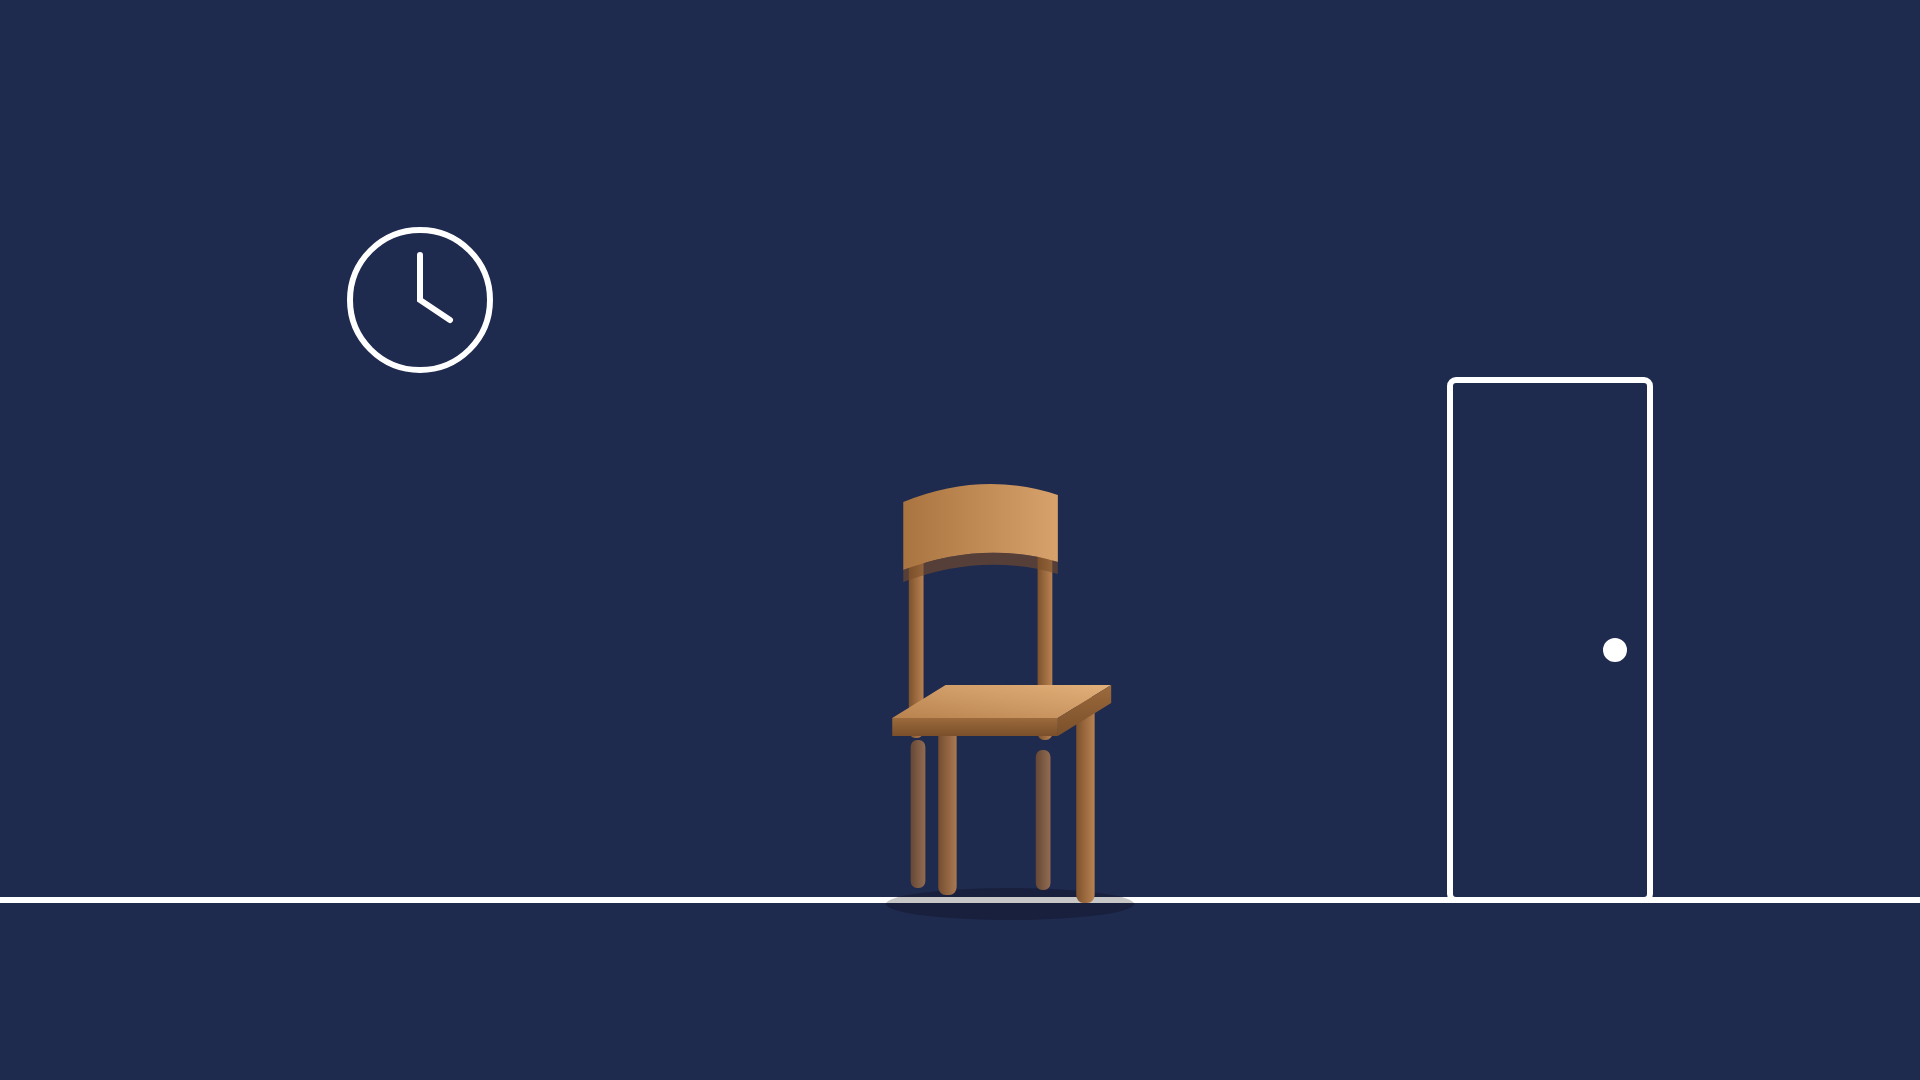
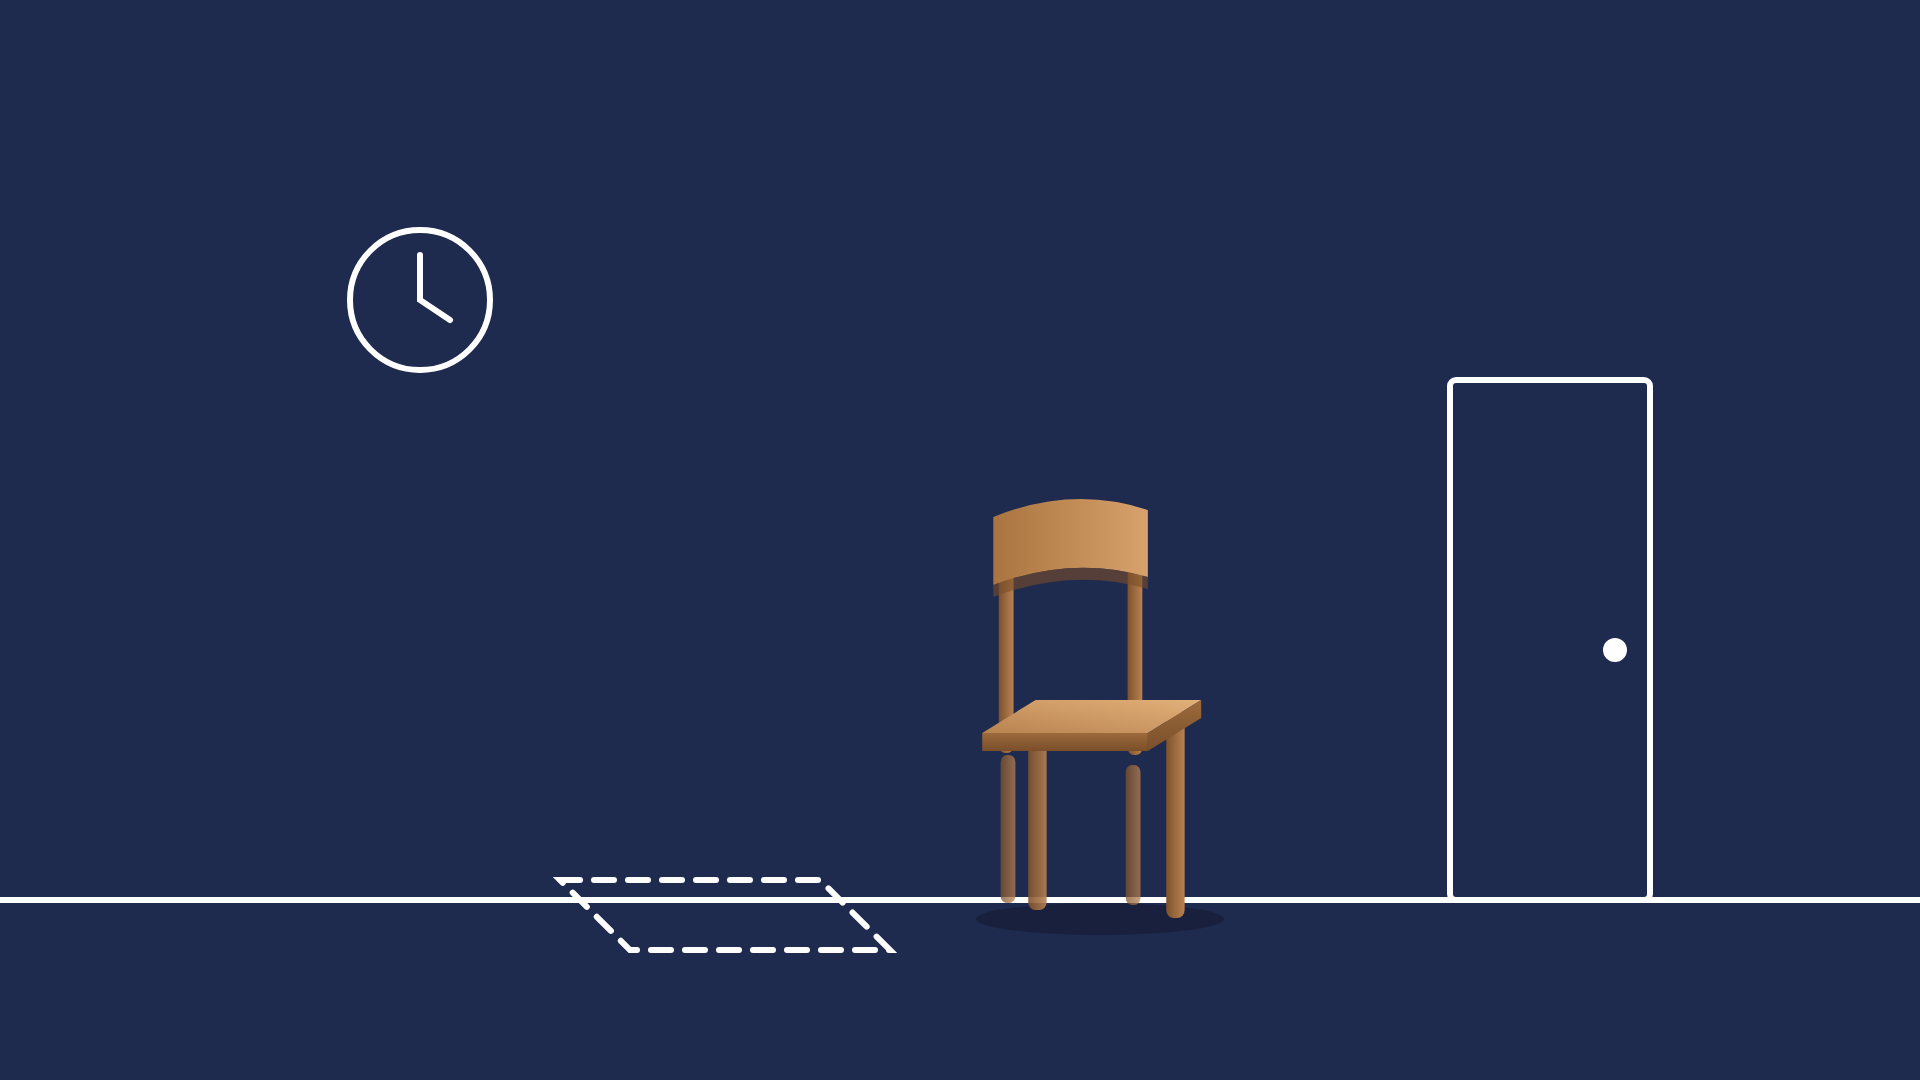
Vidéo 02 : repères croix/coche, place de la chaise au sol, règles de travail de la série
Claude-Session: https://claude.ai/code/session_01PNR9uKd2Bb424Mq2JDk583

Changed region(s): [[0.4688, 0.4278, 0.625, 0.8556], [0.3125, 0.8556, 0.4688, 0.8861], [0.2812, 0.7944, 0.4375, 0.825]]

diff --git a/serie-papa/videos/v02_chaise/timeline.js b/serie-papa/videos/v02_chaise/timeline.js
@@ -1,1 +1,1 @@
-window.TLDATA={"subs": [["THERE'S ONE", 0.8, 1.34, "#FFFFFF"], ["TINY THING", 1.34, 2.32, "#FFFFFF"], ["THAT REVEALS", 2.32, 2.94, "#FFFFFF"], ["MORE ABOUT", 2.94, 3.7, "#FFFFFF"], ["YOU THAN", 3.7, 4.12, "#FFFFFF"], ["YOU THINK.", 4.12, 5.08, "#FFFFFF"], ["AND ALMOST", 5.38, 5.76, "#FFFFFF"], ["NOBODY NOTICES", 5.76, 6.82, "#FFFFFF"], ["IT.", 6.82, 7.8, "#FFFFFF"], ["IMAGINE THIS.", 7.8, 9.28, "#FFFFFF"], ["YOU GET", 9.5, 9.76, "#FFFFFF"], ["UP FROM", 9.76, 10.06, "#FFFFFF"], ["A CHAIR.", 10.06, 11.02, "#FFFFFF"], ["NOBODY'S WATCHING,", 11.02, 12.2, "#FFFFFF"], ["NOBODY CARES.", 12.2, 13.28, "#FFFFFF"], ["AND THE", 13.54, 13.68, "#FFFFFF"], ["CHAIR STAYS", 13.68, 14.7, "#FFFFFF"], ["EXACTLY WHERE", 14.7, 15.86, "#FFFFFF"], ["YOU LEFT", 15.86, 16.18, "#FFFFFF"], ["IT.", 16.18, 16.94, "#FFFFFF"], ["SOME PEOPLE", 18.8, 19.28, "#FFFFFF"], ["WALK AWAY.", 19.28, 20.36, "#FFFFFF"], ["SOME PUT", 22.6, 23.08, "#FFFFFF"], ["IT BACK.", 23.08, 23.96, "#FFFFFF"], ["AND SOME", 26.6, 26.96, "#FFFFFF"], ["EVEN FIX", 26.96, 27.66, "#FFFFFF"], ["THE CHAIRS", 27.66, 28.24, "#FFFFFF"], ["OTHER PEOPLE", 28.24, 28.9, "#FFFFFF"], ["LEFT BEHIND.", 28.9, 30.02, "#FFFFFF"], ["BUT HERE'S", 31.0, 31.44, "#FFFFFF"], ["WHAT'S INTERESTING.", 31.44, 32.4, "#FFFFFF"], ["THE DIFFERENCE", 32.7, 33.16, "#FFFFFF"], ["ISN'T REALLY", 33.16, 33.9, "#FFFFFF"], ["ABOUT THE", 33.9, 34.44, "#FFFFFF"], ["CHAIR.", 34.44, 35.3, "#FFFFFF"], ["IT'S ABOUT", 35.3, 35.7, "#FFFFFF"], ["HOW PEOPLE", 35.7, 36.24, "#FFFFFF"], ["BEHAVE WHEN", 36.24, 37.06, "#FFFFFF"], ["THERE'S NO", 37.06, 37.52, "#FFFFFF"], ["REWARD AND", 37.52, 38.54, "#FFFFFF"], ["NO CONSEQUENCES.", 38.54, 39.78, "#FFFFFF"], ["BECAUSE CHARACTER", 41.8, 42.4, "#FFFFFF"], ["ISN'T ALWAYS", 42.4, 43.28, "#FFFFFF"], ["REVEALED BY", 43.28, 44.02, "#FFFFFF"], ["WHAT YOU", 44.02, 44.38, "#FFFFFF"], ["DO WHEN", 44.38, 44.72, "#FFFFFF"], ["PEOPLE ARE", 44.72, 45.16, "#FFFFFF"], ["WATCHING.", 45.16, 46.1, "#FFFFFF"], ["SOMETIMES IT'S", 46.1, 47.32, "#FFFFFF"], ["WHAT YOU", 47.32, 47.62, "#FFFFFF"], ["DO WHEN", 47.62, 48.06, "#FFFFFF"], ["ABSOLUTELY NOBODY", 48.06, 49.22, "#FFFFFF"], ["IS.", 49.22, 50.2, "#FFFFFF"], ["SO HERE'S", 52.6, 53.44, "#FFFFFF"], ["A STRANGE", 53.44, 53.74, "#FFFFFF"], ["THOUGHT.", 53.74, 54.56, "#FFFFFF"], ["IF SOMEONE", 54.86, 55.1, "#FFFFFF"], ["WATCHED YOU", 55.1, 55.78, "#FFFFFF"], ["LEAVE THAT", 55.78, 56.22, "#FFFFFF"], ["CHAIR BEHIND,", 56.22, 57.22, "#FFFFFF"], ["WHAT WOULD", 57.54, 57.8, "#FFFFFF"], ["THEY LEARN", 57.8, 58.12, "#FFFFFF"], ["ABOUT YOU?", 58.12, 59.12, "#FFFFFF"]], "big": [["THE CHAIR TEST", 0.5, 6.9, 960, 300, 150], ["NO REWARD", 37.3, 40.6, 360, 560, 80], ["NO CONSEQUENCES", 38.54, 40.6, 1580, 560, 80], ["WHAT WOULD THEY LEARN ABOUT YOU?", 59.2, 63.6, 960, 105, 100]], "icons": [["eyeoff", 11.02, 12.2, 1250, 330, "#FFFFFF"], ["check", 22.8, 26.2, 1500, 330, "#FFFFFF"]], "duration": 64.0, "pieces": [[0.0, 6.7, 0.8], [7.06, 16.1, 7.8], [16.62, 18.1, 18.8], [18.32, 19.5, 22.6], [19.74, 23.0, 26.6], [23.42, 32.4, 31.0], [32.78, 41.2, 41.8], [41.94, 48.3, 52.6]]};
+window.TLDATA={"subs": [["THERE'S ONE", 0.8, 1.34, "#FFFFFF"], ["TINY THING", 1.34, 2.32, "#FFFFFF"], ["THAT REVEALS", 2.32, 2.94, "#FFFFFF"], ["MORE ABOUT", 2.94, 3.7, "#FFFFFF"], ["YOU THAN", 3.7, 4.12, "#FFFFFF"], ["YOU THINK.", 4.12, 5.08, "#FFFFFF"], ["AND ALMOST", 5.38, 5.76, "#FFFFFF"], ["NOBODY NOTICES", 5.76, 6.82, "#FFFFFF"], ["IT.", 6.82, 7.8, "#FFFFFF"], ["IMAGINE THIS.", 7.8, 9.28, "#FFFFFF"], ["YOU GET", 9.5, 9.76, "#FFFFFF"], ["UP FROM", 9.76, 10.06, "#FFFFFF"], ["A CHAIR.", 10.06, 11.02, "#FFFFFF"], ["NOBODY'S WATCHING,", 11.02, 12.2, "#FFFFFF"], ["NOBODY CARES.", 12.2, 13.28, "#FFFFFF"], ["AND THE", 13.54, 13.68, "#FFFFFF"], ["CHAIR STAYS", 13.68, 14.7, "#FFFFFF"], ["EXACTLY WHERE", 14.7, 15.86, "#FFFFFF"], ["YOU LEFT", 15.86, 16.18, "#FFFFFF"], ["IT.", 16.18, 16.94, "#FFFFFF"], ["SOME PEOPLE", 18.8, 19.28, "#FFFFFF"], ["WALK AWAY.", 19.28, 20.36, "#FFFFFF"], ["SOME PUT", 22.6, 23.08, "#FFFFFF"], ["IT BACK.", 23.08, 23.96, "#FFFFFF"], ["AND SOME", 26.6, 26.96, "#FFFFFF"], ["EVEN FIX", 26.96, 27.66, "#FFFFFF"], ["THE CHAIRS", 27.66, 28.24, "#FFFFFF"], ["OTHER PEOPLE", 28.24, 28.9, "#FFFFFF"], ["LEFT BEHIND.", 28.9, 30.02, "#FFFFFF"], ["BUT HERE'S", 31.0, 31.44, "#FFFFFF"], ["WHAT'S INTERESTING.", 31.44, 32.4, "#FFFFFF"], ["THE DIFFERENCE", 32.7, 33.16, "#FFFFFF"], ["ISN'T REALLY", 33.16, 33.9, "#FFFFFF"], ["ABOUT THE", 33.9, 34.44, "#FFFFFF"], ["CHAIR.", 34.44, 35.3, "#FFFFFF"], ["IT'S ABOUT", 35.3, 35.7, "#FFFFFF"], ["HOW PEOPLE", 35.7, 36.24, "#FFFFFF"], ["BEHAVE WHEN", 36.24, 37.06, "#FFFFFF"], ["THERE'S NO", 37.06, 37.52, "#FFFFFF"], ["REWARD AND", 37.52, 38.54, "#FFFFFF"], ["NO CONSEQUENCES.", 38.54, 39.78, "#FFFFFF"], ["BECAUSE CHARACTER", 41.8, 42.4, "#FFFFFF"], ["ISN'T ALWAYS", 42.4, 43.28, "#FFFFFF"], ["REVEALED BY", 43.28, 44.02, "#FFFFFF"], ["WHAT YOU", 44.02, 44.38, "#FFFFFF"], ["DO WHEN", 44.38, 44.72, "#FFFFFF"], ["PEOPLE ARE", 44.72, 45.16, "#FFFFFF"], ["WATCHING.", 45.16, 46.1, "#FFFFFF"], ["SOMETIMES IT'S", 46.1, 47.32, "#FFFFFF"], ["WHAT YOU", 47.32, 47.62, "#FFFFFF"], ["DO WHEN", 47.62, 48.06, "#FFFFFF"], ["ABSOLUTELY NOBODY", 48.06, 49.22, "#FFFFFF"], ["IS.", 49.22, 50.2, "#FFFFFF"], ["SO HERE'S", 52.6, 53.44, "#FFFFFF"], ["A STRANGE", 53.44, 53.74, "#FFFFFF"], ["THOUGHT.", 53.74, 54.56, "#FFFFFF"], ["IF SOMEONE", 54.86, 55.1, "#FFFFFF"], ["WATCHED YOU", 55.1, 55.78, "#FFFFFF"], ["LEAVE THAT", 55.78, 56.22, "#FFFFFF"], ["CHAIR BEHIND,", 56.22, 57.22, "#FFFFFF"], ["WHAT WOULD", 57.54, 57.8, "#FFFFFF"], ["THEY LEARN", 57.8, 58.12, "#FFFFFF"], ["ABOUT YOU?", 58.12, 59.12, "#FFFFFF"]], "big": [["THE CHAIR TEST", 0.5, 6.9, 960, 300, 150], ["NO REWARD", 37.3, 40.6, 360, 560, 80], ["NO CONSEQUENCES", 38.54, 40.6, 1580, 560, 80], ["WHAT WOULD THEY LEARN ABOUT YOU?", 59.2, 63.6, 960, 105, 100]], "icons": [["eyeoff", 11.02, 12.2, 1250, 330, "#FFFFFF"], ["cross", 13.6, 16.9, 1300, 420, "#FFFFFF"], ["cross", 19.3, 22.2, 1400, 330, "#FFFFFF"], ["check", 22.8, 26.2, 1500, 330, "#FFFFFF"], ["cross", 28.9, 30.2, 1400, 330, "#FFFFFF"], ["check", 43.5, 45.9, 1300, 330, "#FFFFFF"], ["cross", 48.0, 50.9, 1500, 330, "#FFFFFF"], ["check", 54.5, 59.0, 1450, 400, "#FFFFFF"]], "duration": 64.0, "pieces": [[0.0, 6.7, 0.8], [7.06, 16.1, 7.8], [16.62, 18.1, 18.8], [18.32, 19.5, 22.6], [19.74, 23.0, 26.6], [23.42, 32.4, 31.0], [32.78, 41.2, 41.8], [41.94, 48.3, 52.6]]};

diff --git a/serie-papa/videos/v02_chaise/depart.html b/serie-papa/videos/v02_chaise/depart.html
@@ -36,7 +36,7 @@ svg{position:absolute;inset:0}img{position:absolute}
 <div class="f" id="c1b" style="background:#1F2A4F"><svg viewBox="0 0 1920 1080" fill="none" stroke="#fff" stroke-width="6" stroke-linecap="round">
 <line x1="0" y1="900" x2="1920" y2="900"/><rect x="1450" y="380" width="200" height="520" rx="6"/><circle cx="1615" cy="650" r="9" fill="#fff"/>
 <circle cx="420" cy="300" r="70"/><path d="M420 255 V300 L450 320"/>
-<g transform="translate(1010,900) scale(-0.92,1)"><use href="#chair" stroke="none"/></g></svg></div>
+<path d="M560 880 L820 880 L890 950 L630 950 Z" stroke-dasharray="20 14" stroke-width="6"/><g transform="translate(1100,915) scale(-0.92,1)"><use href="#chair" stroke="none"/></g></svg></div>
 
 <!-- K1: Papa next to the chair in the waiting room (scene 2) -->
 <div class="f" id="k1" style="background:#1F2A4F"><svg viewBox="0 0 1920 1080" fill="none" stroke="#fff" stroke-width="6" stroke-linecap="round">

diff --git a/serie-papa/videos/v02_chaise/overlay.html b/serie-papa/videos/v02_chaise/overlay.html
@@ -17,6 +17,7 @@ const ICON = {
   calendar: '<rect x="-70" y="-60" width="140" height="130" rx="12"/><path d="M-70 -25 H70 M-35 -78 V-45 M35 -78 V-45"/><path d="M-32 22 L-8 45 L35 -2"/>',
   arrow: '<path d="M-80 60 L-25 5 L10 35 L75 -35"/><path d="M35 -38 H78 V5"/>',
   eyeoff: '<path d="M-80 0 C-45 -50 45 -50 80 0 C45 50 -45 50 -80 0 Z"/><circle r="20"/><path d="M-70 -55 L70 55"/>',
+  cross: '<circle r="70"/><path d="M-28 -28 L28 28 M28 -28 L-28 28"/>',
   check: '<circle r="70"/><path d="M-32 2 L-8 26 L35 -22"/>',
   heart: '<path d="M0 60 C-90 5 -75 -65 -25 -60 C-10 -58 0 -45 0 -35 C0 -45 10 -58 25 -60 C75 -65 90 5 0 60 Z"/>',
 };

diff --git a/serie-papa/videos/v02_chaise/timeline.py b/serie-papa/videos/v02_chaise/timeline.py
@@ -25,7 +25,10 @@ big=[['THE CHAIR TEST',0.5,6.9,960,300,150],
  ['NO CONSEQUENCES',vt(30.96),40.6,1580,560,80],
  ['WHAT WOULD THEY LEARN ABOUT YOU?',59.2,63.6,960,105,100]]
 wt=lambda word: next(vt(s) for w,s,e in W if w.lower().startswith(word))
-icons=[['eyeoff',wt("nobody's"),12.2,1250,330,'#FFFFFF'],['check',wt('put'),26.2,1500,330,'#FFFFFF']]
+icons=[['eyeoff',wt("nobody's"),12.2,1250,330,'#FFFFFF'],
+ ['cross',13.6,16.9,1300,420,'#FFFFFF'],['cross',19.3,22.2,1400,330,'#FFFFFF'],
+ ['check',wt('put'),26.2,1500,330,'#FFFFFF'],['cross',28.9,30.2,1400,330,'#FFFFFF'],
+ ['check',43.5,45.9,1300,330,'#FFFFFF'],['cross',48.0,50.9,1500,330,'#FFFFFF'],['check',54.5,59.0,1450,400,'#FFFFFF']]
 D=64.0
 d={'subs':subs,'big':big,'icons':icons,'duration':D,'pieces':P}
 json.dump(d,open('timeline.json','w'),indent=1); open('timeline.js','w').write('window.TLDATA='+json.dumps(d)+';')

diff --git a/serie-papa/METHODE_SERIE.md b/serie-papa/METHODE_SERIE.md
@@ -1,0 +1,7 @@
+# Règles de travail — série Papa
+
+1. **Toujours un plan d'essai d'abord.** Avant de lancer plusieurs plans IA, on génère un seul plan qui contient l'objet ou l'action clé (ex. la chaise), on le montre à l'utilisateur, et on n'enchaîne qu'après son accord.
+2. **Objets importants** : utiliser une vraie image 3D de l'objet (fournie par l'utilisateur ou générée une fois), jamais un dessin approximatif, et la réutiliser à l'identique dans tous les plans.
+3. **Rendre l'idée évidente** : si l'histoire repose sur une différence (rangé / dérangé), elle doit se voir au premier coup d'œil : grand écart, repère au sol en pointillés, icônes croix / coche.
+4. **Bruitages** : seulement ceux qui ont un sens clair ; pas de son répété mécaniquement (pas, whoosh à chaque coupe).
+5. **Coûts** : estimer et demander l'accord avant chaque dépense ; proposer d'abord la solution la moins chère.
